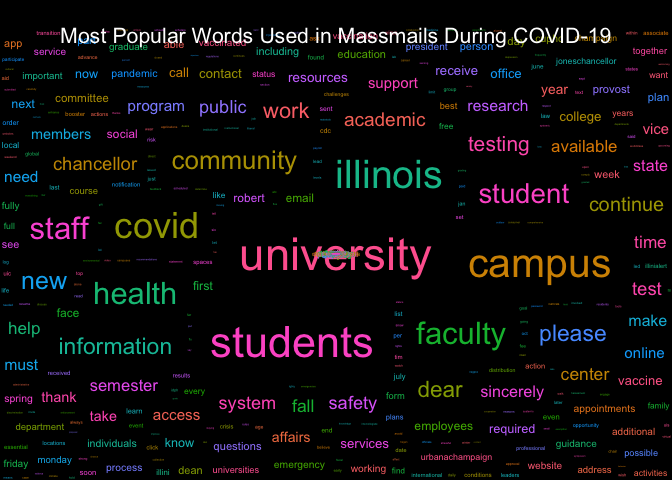
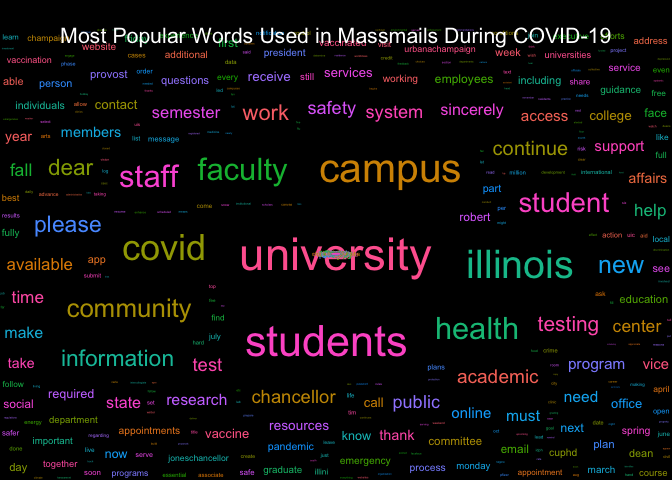
Re-build README.Rmd and Graphs

Changed region(s): [[0.0, 0.0625, 1.0, 1.0], [0.4688, 0.3125, 0.6875, 0.4062]]

diff --git a/README.md b/README.md
@@ -17,7 +17,7 @@ The archive may be viewed here:
 
 <https://massmail.illinois.edu/massmailArchive>
 
-Data has **813** observations and **7** variables:
+Data has **814** observations and **7** variables:
 
 - `datetime`: Date and time when the email was sent in the form of
   `YYYY-MM-DD HMS` with either CDT or CST.
@@ -210,13 +210,13 @@ head(most_popular_words, 10) %>%
 
 | word       | freq |
 |:-----------|-----:|
-| university | 1889 |
-| students   | 1618 |
+| university | 1893 |
+| students   | 1620 |
 | campus     | 1455 |
-| illinois   | 1264 |
+| illinois   | 1271 |
 | covid      | 1070 |
 | faculty    |  970 |
-| community  |  902 |
+| community  |  903 |
 | health     |  900 |
 | student    |  824 |
 | staff      |  804 |
